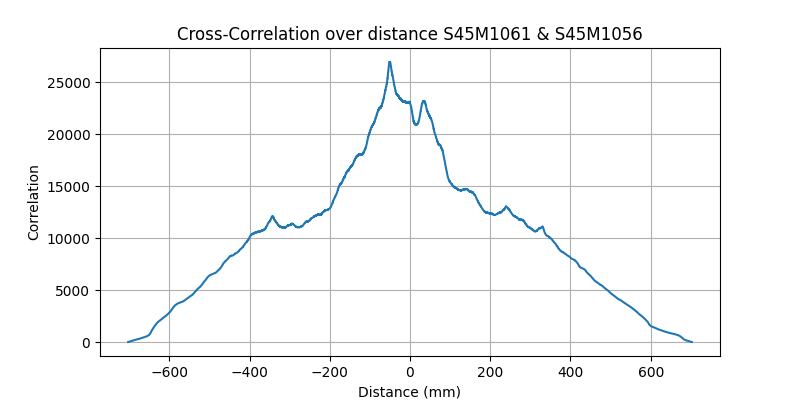
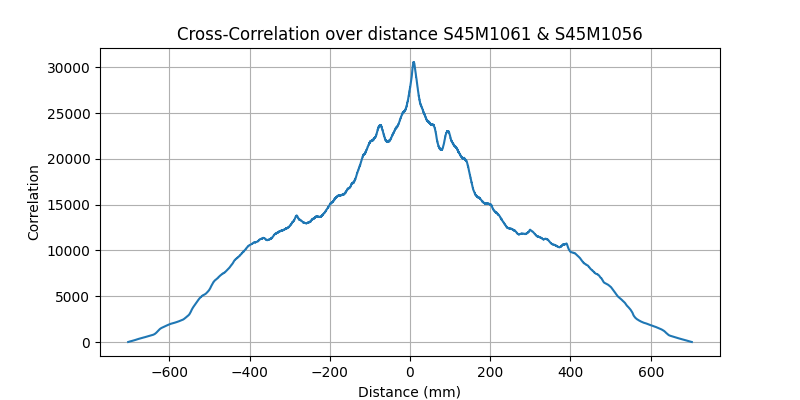
separte functions fr align on reference or align pairs but still problem that length of profiles are not the same

diff --git a/code_SMP/offset.py b/code_SMP/offset.py
@@ -66,69 +66,24 @@ def get_offset(df1, df2, name1, name2, plot=True):
     return offset_mm, correlation, lag_max
 
 
-def align_profiles(smp_profiles, pairs=True, plot=True, save=False): 
-    #case only pairs to compare
-    if pairs == True:
-        paired_profiles = bulid_pairs(smp_profiles)
-        for df1, name1, df2, name2 in paired_profiles:
-            offset_mm, correlation, lag = get_offset(df1, df2, name1, name2)
-            df2_shifted = df2.copy()
-            # shift indices of df2 with lag to get max correlation
-            # positive lag shift to right side - negative lag shift to left side
-            df2_shifted['force'] = df2_shifted['force'].shift(lag, fill_value=np.nan)
-
-            # bring both to same length
-            min_len = min(len(df1), len(df2_shifted))
-            df1 = df1.iloc[:min_len]
-            df2_shifted = df2_shifted.iloc[:min_len]
-
-            # cut both profiles to common length
-            # find valid Index range
-            force1_valid = ~df1["force"].isna() #boolean for all values if value=True, if Nan=False
-            force2_valid = ~df2_shifted["force"].isna()
-            valid_mask = force1_valid & force2_valid #find valid range (as long as boolean=True)
-            valid_index = df1.index[valid_mask] #get index of valid range
-
-            #cut to valid range
-            df1_shifted = df1.loc[valid_index].reset_index(drop=True)
-            df2_shifted = df2_shifted.loc[valid_index].reset_index(drop=True)
-
-            #take distance values from df1 for both dfs
-            df2_shifted["distance"] = df1_shifted["distance"]
-
-            if plot == True:
-                title = f"Signal shifted with cross-Correlation {name1} & {name2}"
-                filename = f"aligned_{name1}_to_{name2}"
-                plot_pairs([(df1_shifted, name1, df2_shifted, name2)], filename, save=True, title=title, target_dir=target_dir)
-
-            # update/save in original dictionary
-            smp_profiles[name1] = df1_shifted
-            smp_profiles[name2] = df2_shifted
-        #save correlation results as csv
-        if save == True:
-            smp_profiles_shifted = smp_profiles.copy()
-            save_dir = Path("data/aligned_pairs")
-            save_dir.mkdir(parents=True, exist_ok=True)
-            for name, df in smp_profiles.items():
-                df.to_csv(save_dir / f"{name}_aligned.csv", index=False)
+def align_profiles_to_reference(smp_profiles, plot=True, save=False): 
 
     #case more than two profiles to compare
-    else:
-     for day in [1,2]:
-        # take all profiles of one day 
-        day_profiles = {name: df for name, df in smp_profiles.items()
-                        if df.attrs.get("date") == day and df.attrs.get("velocity", 0) != 0}
+    for day in [1,2]:
+       # take all profiles of one day 
+       day_profiles = {name: df for name, df in smp_profiles.items()
+                       if df.attrs.get("date") == day and df.attrs.get("velocity", 0) != 0}
 
         # Get the first non-temperature-profile of the day as reference
-        reference_name = next(iter(day_profiles))
-        reference_df = day_profiles[reference_name]
+       reference_name = next(iter(day_profiles))
+       reference_df = day_profiles[reference_name]
 
-        # create dict for aligned dfs for later 
-        aligned_profiles = {}
-        aligned_profiles[reference_name] = reference_df.copy()
-        lag_dict = {}
+       # create dict for aligned dfs for later 
+       aligned_profiles = {}
+       aligned_profiles[reference_name] = reference_df.copy()
+       lag_dict = {}
 
-        for name, df in day_profiles.items():
+       for name, df in day_profiles.items():
             #except the reference profile
             if name == reference_name:
                 continue
@@ -142,25 +97,25 @@ def align_profiles(smp_profiles, pairs=True, plot=True, save=False):
             lag_dict[name] = lag
 
         # update reference_df to match min_len
-        min_len = min(len(df) for df in aligned_profiles.values())
-        for name in aligned_profiles:
+       min_len = min(len(df) for df in aligned_profiles.values())
+       for name in aligned_profiles:
             aligned_profiles[name] = aligned_profiles[name].iloc[:min_len].reset_index(drop=True)
 
-        reference_df = aligned_profiles[reference_name]
-        # reference distance beginning with zero
-        reference_distance = reference_df["distance"] - reference_df["distance"].iloc[0]
-        reference_df["distance"] = reference_distance.reset_index(drop=True)
-        aligned_profiles[reference_name] = reference_df.reset_index(drop=True)
+       reference_df = aligned_profiles[reference_name]
+       # reference distance beginning with zero
+       reference_distance = reference_df["distance"] - reference_df["distance"].iloc[0]
+       reference_df["distance"] = reference_distance.reset_index(drop=True)
+       aligned_profiles[reference_name] = reference_df.reset_index(drop=True)
 
 
         # search valid range for all profiles of one day
-        masks = [~df["force"].isna() for df in aligned_profiles.values()]
-        common_mask = masks[0]
-        for m in masks[1:]:
+       masks = [~df["force"].isna() for df in aligned_profiles.values()]
+       common_mask = masks[0]
+       for m in masks[1:]:
             common_mask &= m
-        valid_index = np.where(common_mask.to_numpy())[0]
+       valid_index = np.where(common_mask.to_numpy())[0]
 
-        for name, df in aligned_profiles.items():
+       for name, df in aligned_profiles.items():
             # cut profiles to valid range
             df_cut = df.iloc[valid_index].reset_index(drop=True)
             # take distance values from reference profiles
@@ -176,16 +131,68 @@ def align_profiles(smp_profiles, pairs=True, plot=True, save=False):
                             save=True,
                             target_dir=target_dir)
 
-        for name, df in aligned_profiles.items():
+       for name, df in aligned_profiles.items():
             smp_profiles[name] = df  # update original
 
-        #save correlation results as csv
-        if save:
+       #save correlation results as csv
+       if save:
             save_dir = Path("data/aligned_first")
             save_dir.mkdir(parents=True, exist_ok=True)
 
+       for name, df in smp_profiles.items():
+           df.to_csv(save_dir / f"{name}_aligned.csv", index=False)
+
+    smp_profiles_shifted = smp_profiles.copy()
+    return smp_profiles_shifted
+
+
+def align_profiles(smp_profiles, paired_profiles=None, plot=True, save=False): 
+    #case only pairs to compare
+    #names of pairs are input statement
+    if paired_profiles is None:
+        paired_profiles = bulid_pairs(smp_profiles) #if not input then pairs are built from all profiles
+    for df1, name1, df2, name2 in paired_profiles:
+        offset_mm, correlation, lag = get_offset(df1, df2, name1, name2)
+        df2_shifted = df2.copy()
+        # shift indices of df2 with lag to get max correlation
+        # positive lag shift to right side - negative lag shift to left side
+        df2_shifted['force'] = df2_shifted['force'].shift(lag, fill_value=np.nan)
+
+        # bring both to same length
+        min_len = min(len(df1), len(df2_shifted))
+        df1 = df1.iloc[:min_len]
+        df2_shifted = df2_shifted.iloc[:min_len]
+
+        # cut both profiles to common length
+        # find valid Index range
+        force1_valid = ~df1["force"].isna() #boolean for all values if value=True, if Nan=False
+        force2_valid = ~df2_shifted["force"].isna()
+        valid_mask = force1_valid & force2_valid #find valid range (as long as boolean=True)
+        valid_index = df1.index[valid_mask] #get index of valid range
+
+        #cut to valid range
+        df1_shifted = df1.loc[valid_index].reset_index(drop=True)
+        df2_shifted = df2_shifted.loc[valid_index].reset_index(drop=True)
+
+        #take distance values from df1 for both dfs
+        df2_shifted["distance"] = df1_shifted["distance"]
+
+        if plot == True:
+            title = f"Signal shifted with cross-Correlation {name1} & {name2}"
+            filename = f"aligned_{name1}_to_{name2}"
+            plot_pairs([(df1_shifted, name1, df2_shifted, name2)], filename, save=True, title=title, target_dir=target_dir)
+
+        # update/save in original dictionary
+        smp_profiles[name1] = df1_shifted
+        smp_profiles[name2] = df2_shifted
+    #save correlation results as csv
+    if save == True:
+        smp_profiles_shifted = smp_profiles.copy()
+        save_dir = Path("data/aligned_pairs")
+        save_dir.mkdir(parents=True, exist_ok=True)
         for name, df in smp_profiles.items():
             df.to_csv(save_dir / f"{name}_aligned.csv", index=False)
+
 
     smp_profiles_shifted = smp_profiles.copy()
     return smp_profiles_shifted
@@ -194,6 +201,6 @@ def align_profiles(smp_profiles, pairs=True, plot=True, save=False):
 if __name__ == "__main__":
     smp_profiles = load_all_smp_profiles()
     #to aligning two profiles
-    smp_profiles_shifted = align_profiles(smp_profiles, pairs=True, plot=True, save=True)
+    smp_profiles_shifted = align_profiles(smp_profiles, paired_profiles=None, plot=True, save=True)
     #to align all profiles to the first one of the day
-    smp_profiles_shifted = align_profiles(smp_profiles, pairs=False, save=True)
+    #smp_profiles_shifted = align_profiles_to_reference(smp_profiles, save=True)

diff --git a/code_SMP/pairs.py b/code_SMP/pairs.py
@@ -1,0 +1,71 @@
+single_distance_pairs = [
+    ("S45M1056", "S45M1057"),
+    ("S45M1057", "S45M1058"),
+    ("S45M1058", "S45M1059"),
+    ("S45M1059", "S45M1060"),
+    ("S45M1061", "S45M1062"),
+    ("S45M1062", "S45M1063"),
+    ("S45M1063", "S45M1064"),
+    ("S45M1064", "S45M1065"),
+    ("S45M1083", "S45M1084"),
+    ("S45M1084", "S45M1085"),
+    ("S45M1085", "S45M1086"),
+    ("S45M1086", "S45M1087"),
+    ("S45M1089", "S45M1090"),
+    ("S45M1090", "S45M1091"),
+    ("S45M1091", "S45M1092"),
+    ("S45M1092", "S45M1093"),
+]
+
+double_distance_pairs = [
+    ("S45M1056", "S45M1058"),
+    ("S45M1057", "S45M1059"),
+    ("S45M1058", "S45M1060"),
+    ("S45M1061", "S45M1063"),
+    ("S45M1062", "S45M1064"),
+    ("S45M1063", "S45M1065"),
+    ("S45M1083", "S45M1085"),
+    ("S45M1084", "S45M1086"),
+    ("S45M1085", "S45M1087"),
+    ("S45M1089", "S45M1091"),
+    ("S45M1090", "S45M1092"),
+    ("S45M1091", "S45M1093"),
+]
+
+increasing_distance_pairs = [
+    ("S45M1056", "S45M1057"),
+    ("S45M1056", "S45M1058"),
+    ("S45M1056", "S45M1059"),
+    ("S45M1056", "S45M1060"),
+    ("S45M1061", "S45M1062"),
+    ("S45M1061", "S45M1063"),
+    ("S45M1061", "S45M1064"),
+    ("S45M1061", "S45M1065"),
+    ("S45M1083", "S45M1084"),
+    ("S45M1083", "S45M1085"),
+    ("S45M1083", "S45M1086"),
+    ("S45M1083", "S45M1087"),
+    ("S45M1089", "S45M1090"),
+    ("S45M1089", "S45M1091"),
+    ("S45M1089", "S45M1092"),
+    ("S45M1089", "S45M1093"),
+]
+
+decreasing_distance_pairs = [
+    ("S45M1060", "S45M1056"),
+    ("S45M1060", "S45M1057"),
+    ("S45M1060", "S45M1058"),
+    ("S45M1060", "S45M1059"),
+    ("S45M1065", "S45M1061"),
+    ("S45M1065", "S45M1062"),
+    ("S45M1065", "S45M1063"),
+    ("S45M1065", "S45M1064"),
+    ("S45M1087", "S45M1083"),
+    ("S45M1087", "S45M1084"),
+    ("S45M1087", "S45M1085"),
+    ("S45M1087", "S45M1086"),
+    ("S45M1093", "S45M1089"),
+    ("S45M1093", "S45M1090"),
+    ("S45M1093", "S45M1091"),
+    ("S45M1093", "S45M1092"),
+]

diff --git a/code_SMP/similarity.py b/code_SMP/similarity.py
@@ -6,6 +6,7 @@ from pathlib import Path
 from code_SMP.readSMP import load_all_smp_profiles
 from code_visualizations.plotSMP import bulid_pairs
 from scipy.stats import pearsonr
+from pairs import single_distance_pairs, double_distance_pairs, increasing_distance_pairs, decreasing_distance_pairs
 
 #use same logic as in offset.py to build pairs of profiles to a reference profile
 def build_daywise_pairs(smp_profiles):
